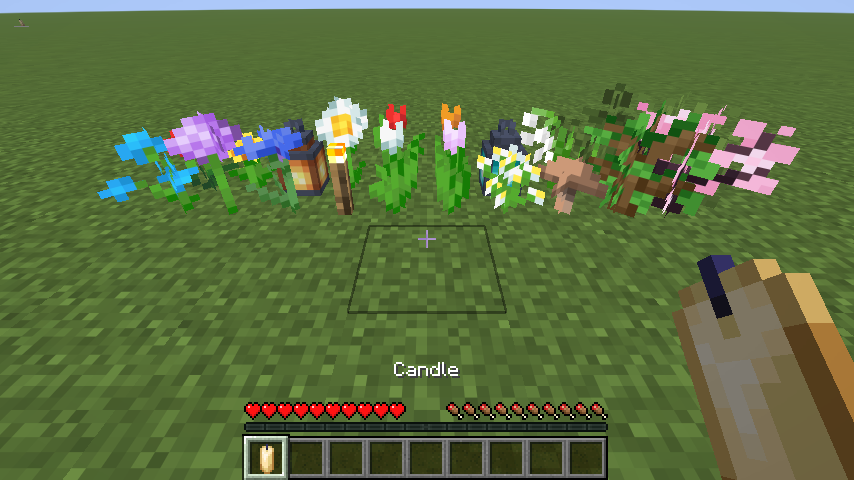
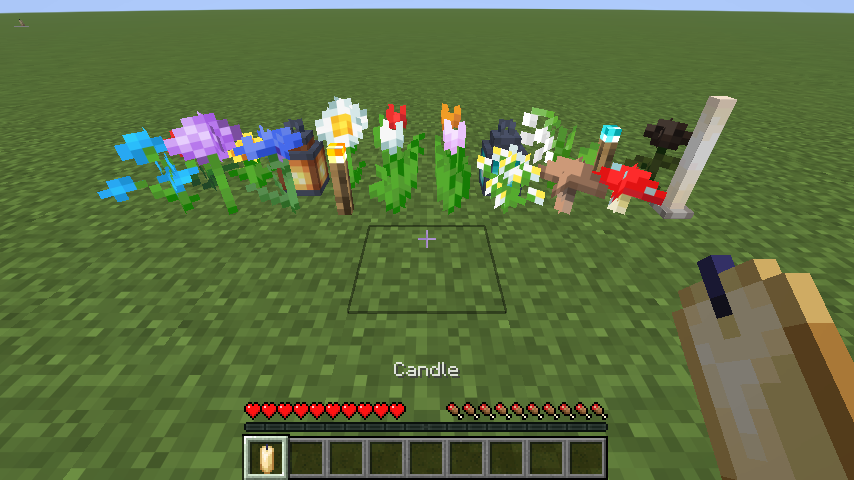
Kleinkram: exclude connecting, growing and self-quartering blocks
Fences, walls, panes and bars connect to neighbours; crops, stems, vines,
bamboo and dripstone grow or span several blocks; leaf litter, pink petals
and wildflowers already fill quarters themselves. 72 small blocks remain,
listed in the startup log.

Claude-Session: https://claude.ai/code/session_017LdPw8UdYqUAbJaj4nxL39

Changed region(s): [[0.6393, 0.1562, 0.9438, 0.4688], [0.4567, 0.75, 0.548, 0.7812]]

diff --git a/src/main/java/de/dorschmic/baukunst/cluster/Clusters.java b/src/main/java/de/dorschmic/baukunst/cluster/Clusters.java
@@ -23,6 +23,7 @@ import net.minecraft.world.level.Level;
 import net.minecraft.world.level.block.BaseRailBlock;
 import net.minecraft.world.level.block.Block;
 import net.minecraft.world.level.block.ButtonBlock;
+import net.minecraft.world.level.block.CrossCollisionBlock;
 import net.minecraft.world.level.block.DiodeBlock;
 import net.minecraft.world.level.block.EntityBlock;
 import net.minecraft.world.level.block.FlowerPotBlock;
@@ -32,6 +33,7 @@ import net.minecraft.world.level.block.RedstoneTorchBlock;
 import net.minecraft.world.level.block.RenderShape;
 import net.minecraft.world.level.block.SoundType;
 import net.minecraft.world.level.block.TripWireHookBlock;
+import net.minecraft.world.level.block.WallBlock;
 import net.minecraft.world.level.block.entity.BlockEntityType;
 import net.minecraft.world.level.block.state.BlockBehaviour;
 import net.minecraft.world.level.block.state.BlockState;
@@ -57,6 +59,8 @@ public final class Clusters {
 	private static final List<IntegerProperty> VANILLA_STACKING = List.of(BlockStateProperties.CANDLES,
 			BlockStateProperties.PICKLES, BlockStateProperties.FLOWER_AMOUNT, BlockStateProperties.SEGMENT_AMOUNT,
 			BlockStateProperties.EGGS);
+
+	private static final Set<String> EXCLUDED_PROPERTIES = Set.of("age", "thickness", "flower_amount", "segment_amount");
 
 	private Clusters() {
 	}
@@ -88,7 +92,8 @@ public final class Clusters {
 				ELIGIBLE.add(block);
 			}
 		}
-		Baukunst.LOGGER.info("{} kleine Blöcke lassen sich zu viert kombinieren", ELIGIBLE.size());
+		Baukunst.LOGGER.info("{} kleine Blöcke lassen sich zu viert kombinieren: {}", ELIGIBLE.size(),
+				ELIGIBLE.stream().map(b -> BuiltInRegistries.BLOCK.getKey(b).getPath()).sorted().toList());
 
 		UseBlockCallback.EVENT.register(Clusters::onUse);
 		PlayerBlockBreakEvents.BEFORE.register((level, player, pos, state, blockEntity) ->
@@ -102,13 +107,21 @@ public final class Clusters {
 		if (block instanceof EntityBlock || block instanceof ButtonBlock || block instanceof LeverBlock
 				|| block instanceof RedstoneTorchBlock || block instanceof TripWireHookBlock || block instanceof FlowerPotBlock
 				|| block instanceof DiodeBlock || block instanceof BaseRailBlock
-				|| block instanceof LadderBlock) {
+				|| block instanceof LadderBlock
+				// connect to their neighbours – would look broken inside a quarter
+				|| block instanceof CrossCollisionBlock || block instanceof WallBlock) {
 			return false;
 		}
 		if (!(block.asItem() instanceof BlockItem item) || item.getBlock() != block) {
 			return false;
 		}
 		BlockState state = block.defaultBlockState();
+		for (var property : state.getProperties()) {
+			// growing plants, multi-part dripstone, and blocks that already fill quarters themselves
+			if (EXCLUDED_PROPERTIES.contains(property.getName())) {
+				return false;
+			}
+		}
 		if (state.getRenderShape() != RenderShape.MODEL || state.hasProperty(BlockStateProperties.DOUBLE_BLOCK_HALF)
 				|| state.hasProperty(BlockStateProperties.BED_PART)) {
 			return false;

diff --git a/src/gametest/java/de/dorschmic/baukunst/test/ClusterClientTest.java b/src/gametest/java/de/dorschmic/baukunst/test/ClusterClientTest.java
@@ -82,7 +82,7 @@ public class ClusterClientTest implements FabricClientGameTest {
 						{Blocks.LANTERN, Blocks.OXEYE_DAISY, Blocks.CORNFLOWER, Blocks.TORCH},
 						{Blocks.RED_TULIP, Blocks.ORANGE_TULIP, Blocks.WHITE_TULIP, Blocks.PINK_TULIP},
 						{Blocks.SOUL_LANTERN, Blocks.LILY_OF_THE_VALLEY, Blocks.AZURE_BLUET, Blocks.BROWN_MUSHROOM},
-						{Blocks.FERN, Blocks.SHORT_GRASS, Blocks.OAK_SAPLING, Blocks.CHERRY_SAPLING},
+						{Blocks.SOUL_TORCH, Blocks.WITHER_ROSE, Blocks.RED_MUSHROOM, Blocks.END_ROD},
 				};
 				for (int x = -3; x <= 3; x++) {
 					for (int z = -2; z <= 2; z++) {

diff --git a/README.md b/README.md
@@ -45,7 +45,7 @@ Stämme, Laub, Glas, Terrakotta, Erze, Eis, Kupfer …
 ### Kleinkram: bis zu 4 kleine Blöcke in einem Feld
 ![Kleinkram](docs/small_block_clusters.png)
 
-Kleine Vanilla-Blöcke – Blumen, Setzlinge, Pilze, Farne, Laternen, Fackeln, Ketten, Kerzen … – passen zu viert in ein Blockfeld,
+Kleine Vanilla-Blöcke – Blumen, Pilze, Laternen, Fackeln, Ketten, Kerzen, Blitzableiter … (72 Stück) – passen zu viert in ein Blockfeld,
 ein Stück pro Viertel (wie Laubstreu oder Rosa Blütenblätter).
 
 - **Ein** kleiner Block steht ganz normal in der Mitte.
@@ -54,7 +54,8 @@ ein Stück pro Viertel (wie Laubstreu oder Rosa Blütenblätter).
 - Die Blöcke behalten ihre **Originalgröße** und ihr Aussehen; eine Laterne im Feld leuchtet weiter.
 - **Abbauen** entfernt nur den Block, auf den du schaust. Bleibt einer übrig, wandert er zurück in die Mitte und ist wieder ein normaler Block.
 - Kerzen, Seegurken, Blütenblätter und Schildkröteneier stapeln sich wie gewohnt, wenn du denselben Block daraufklickst.
-- Ausgenommen sind Redstone-Teile, Schienen, Leitern, Blumentöpfe, zweiteilige Pflanzen und Blöcke mit Inventar.
+- Ausgenommen sind Blöcke, die breiter als ein Viertel sind (Setzlinge, Farne, Gras), wachsende Pflanzen, Zäune, Mauern,
+  Glasscheiben, Redstone-Teile, Schienen, Leitern, Blumentöpfe, zweiteilige Pflanzen und Blöcke mit Inventar.
 
 > Hinweis: Die Mod muss auf Client **und** Server installiert sein. Entfernt man sie, werden vertikale Stufen wieder zu normalen Stufen.
 
